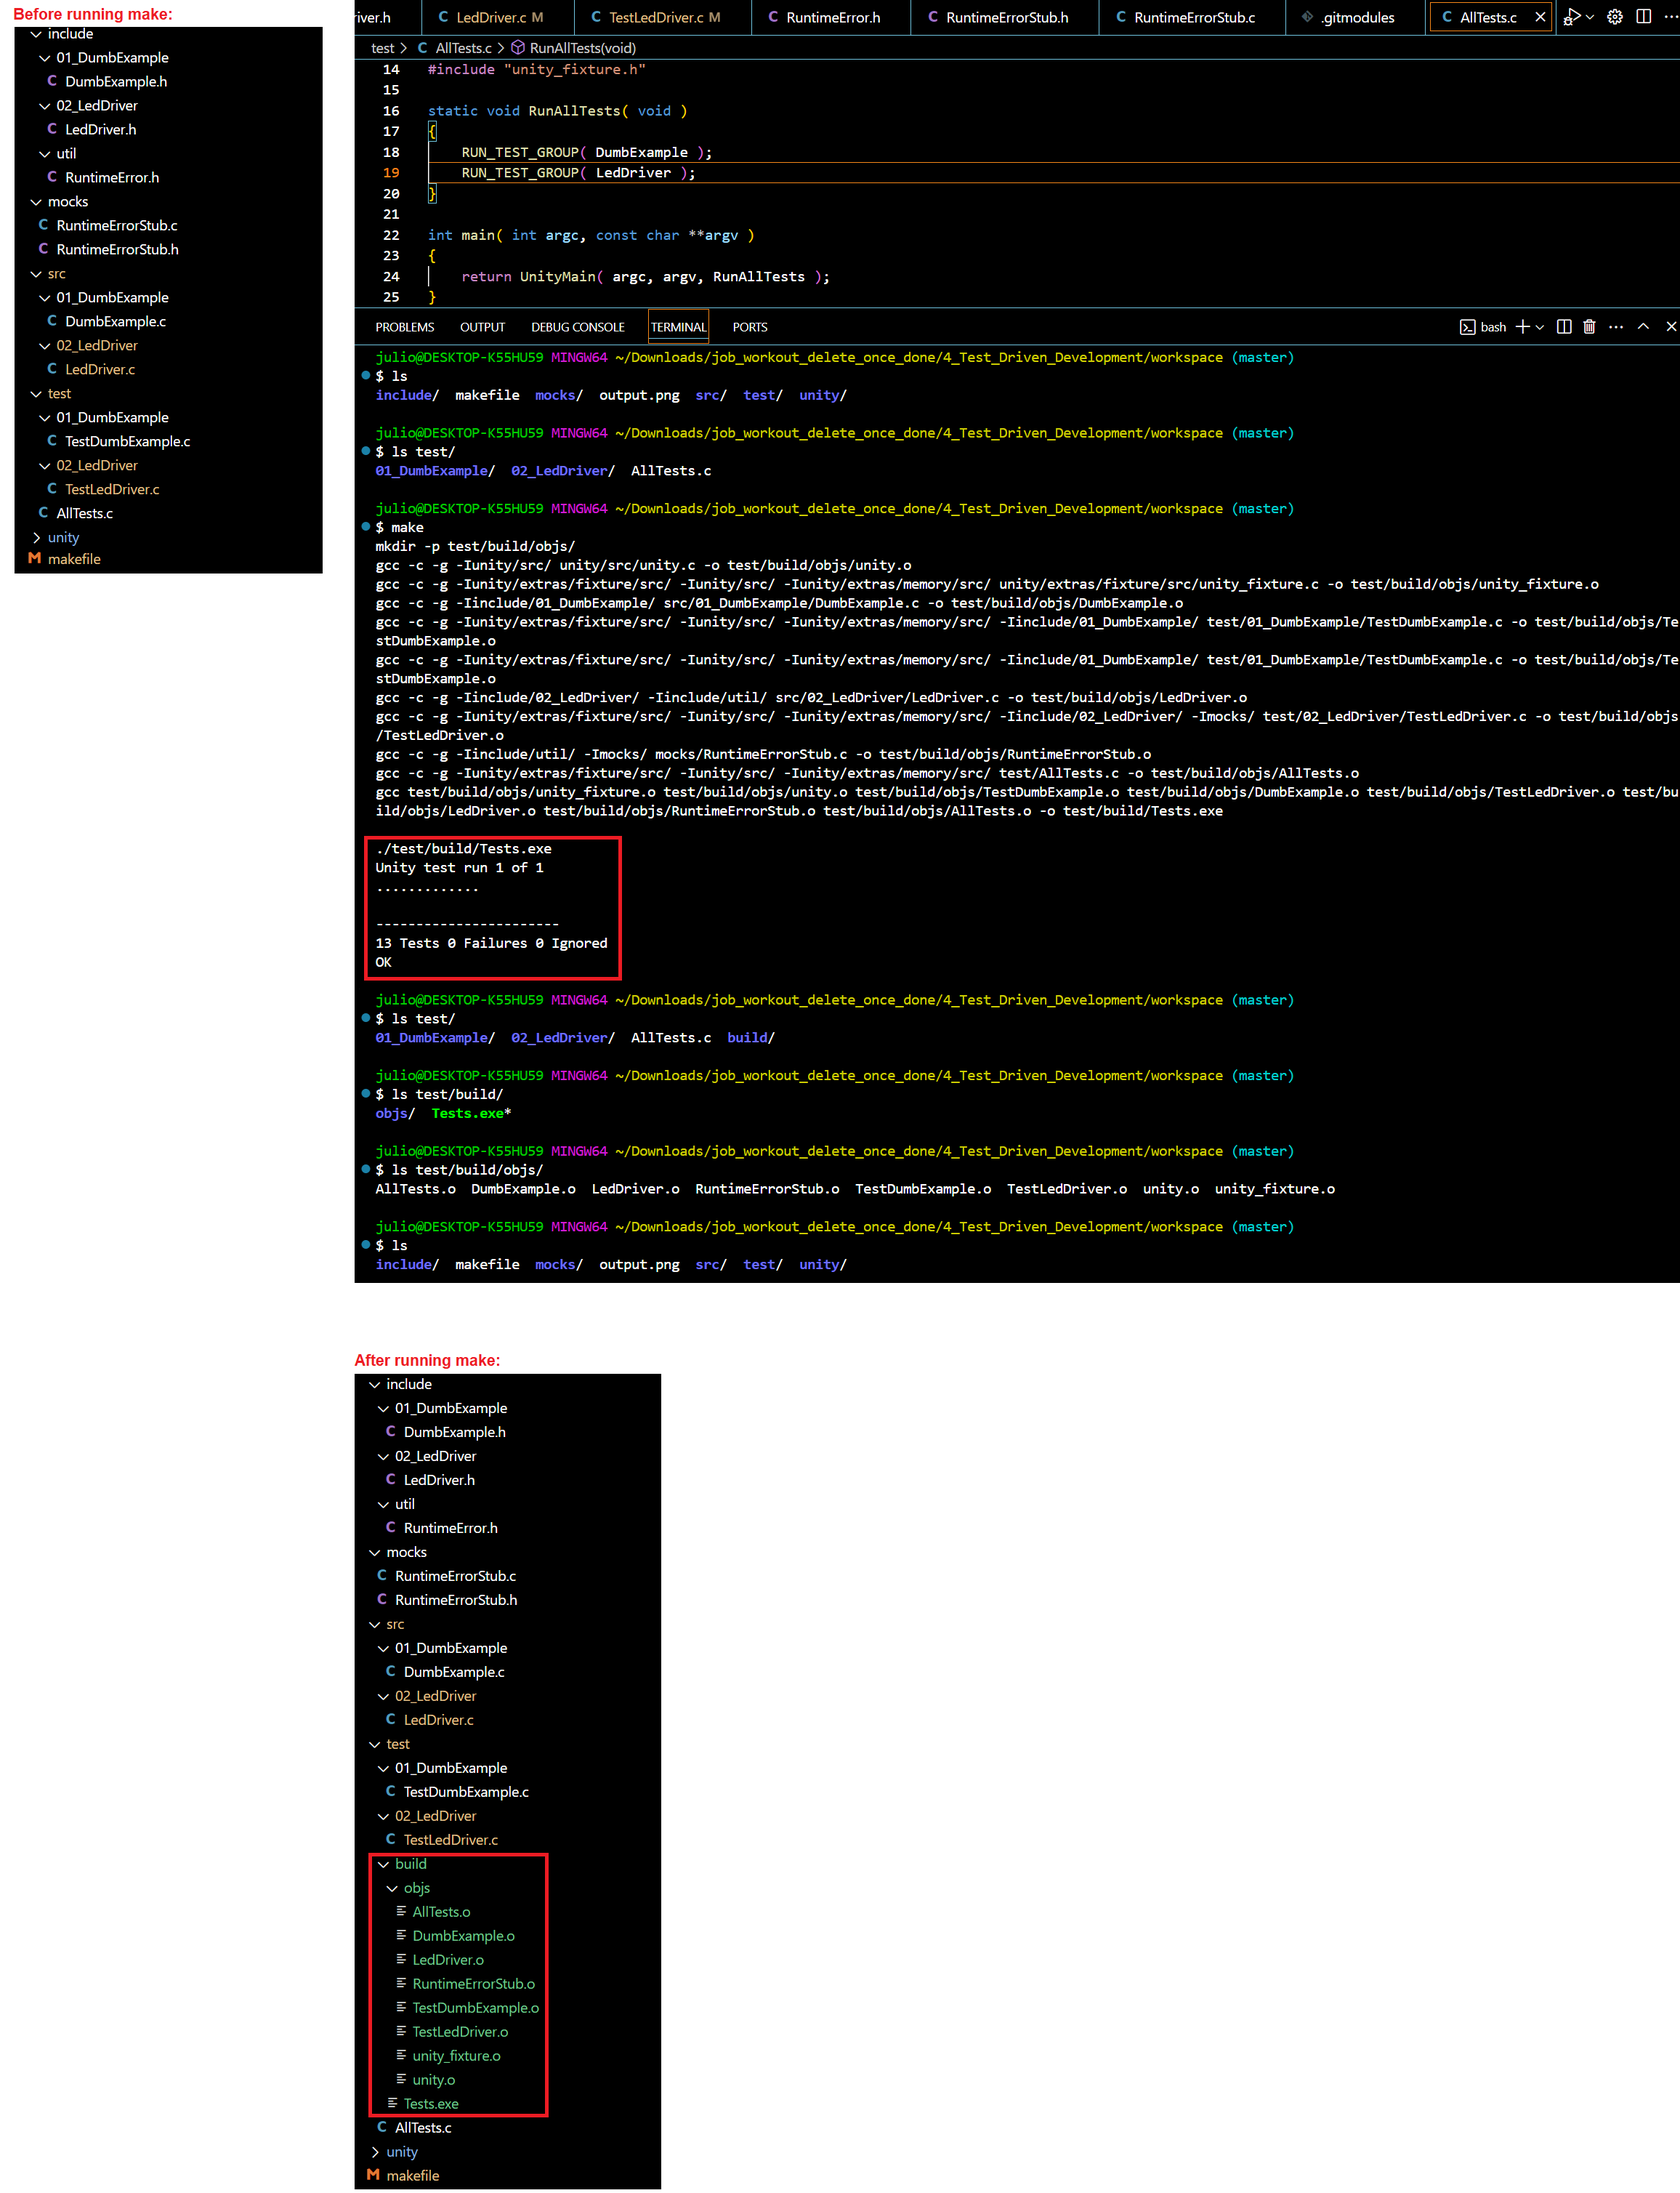
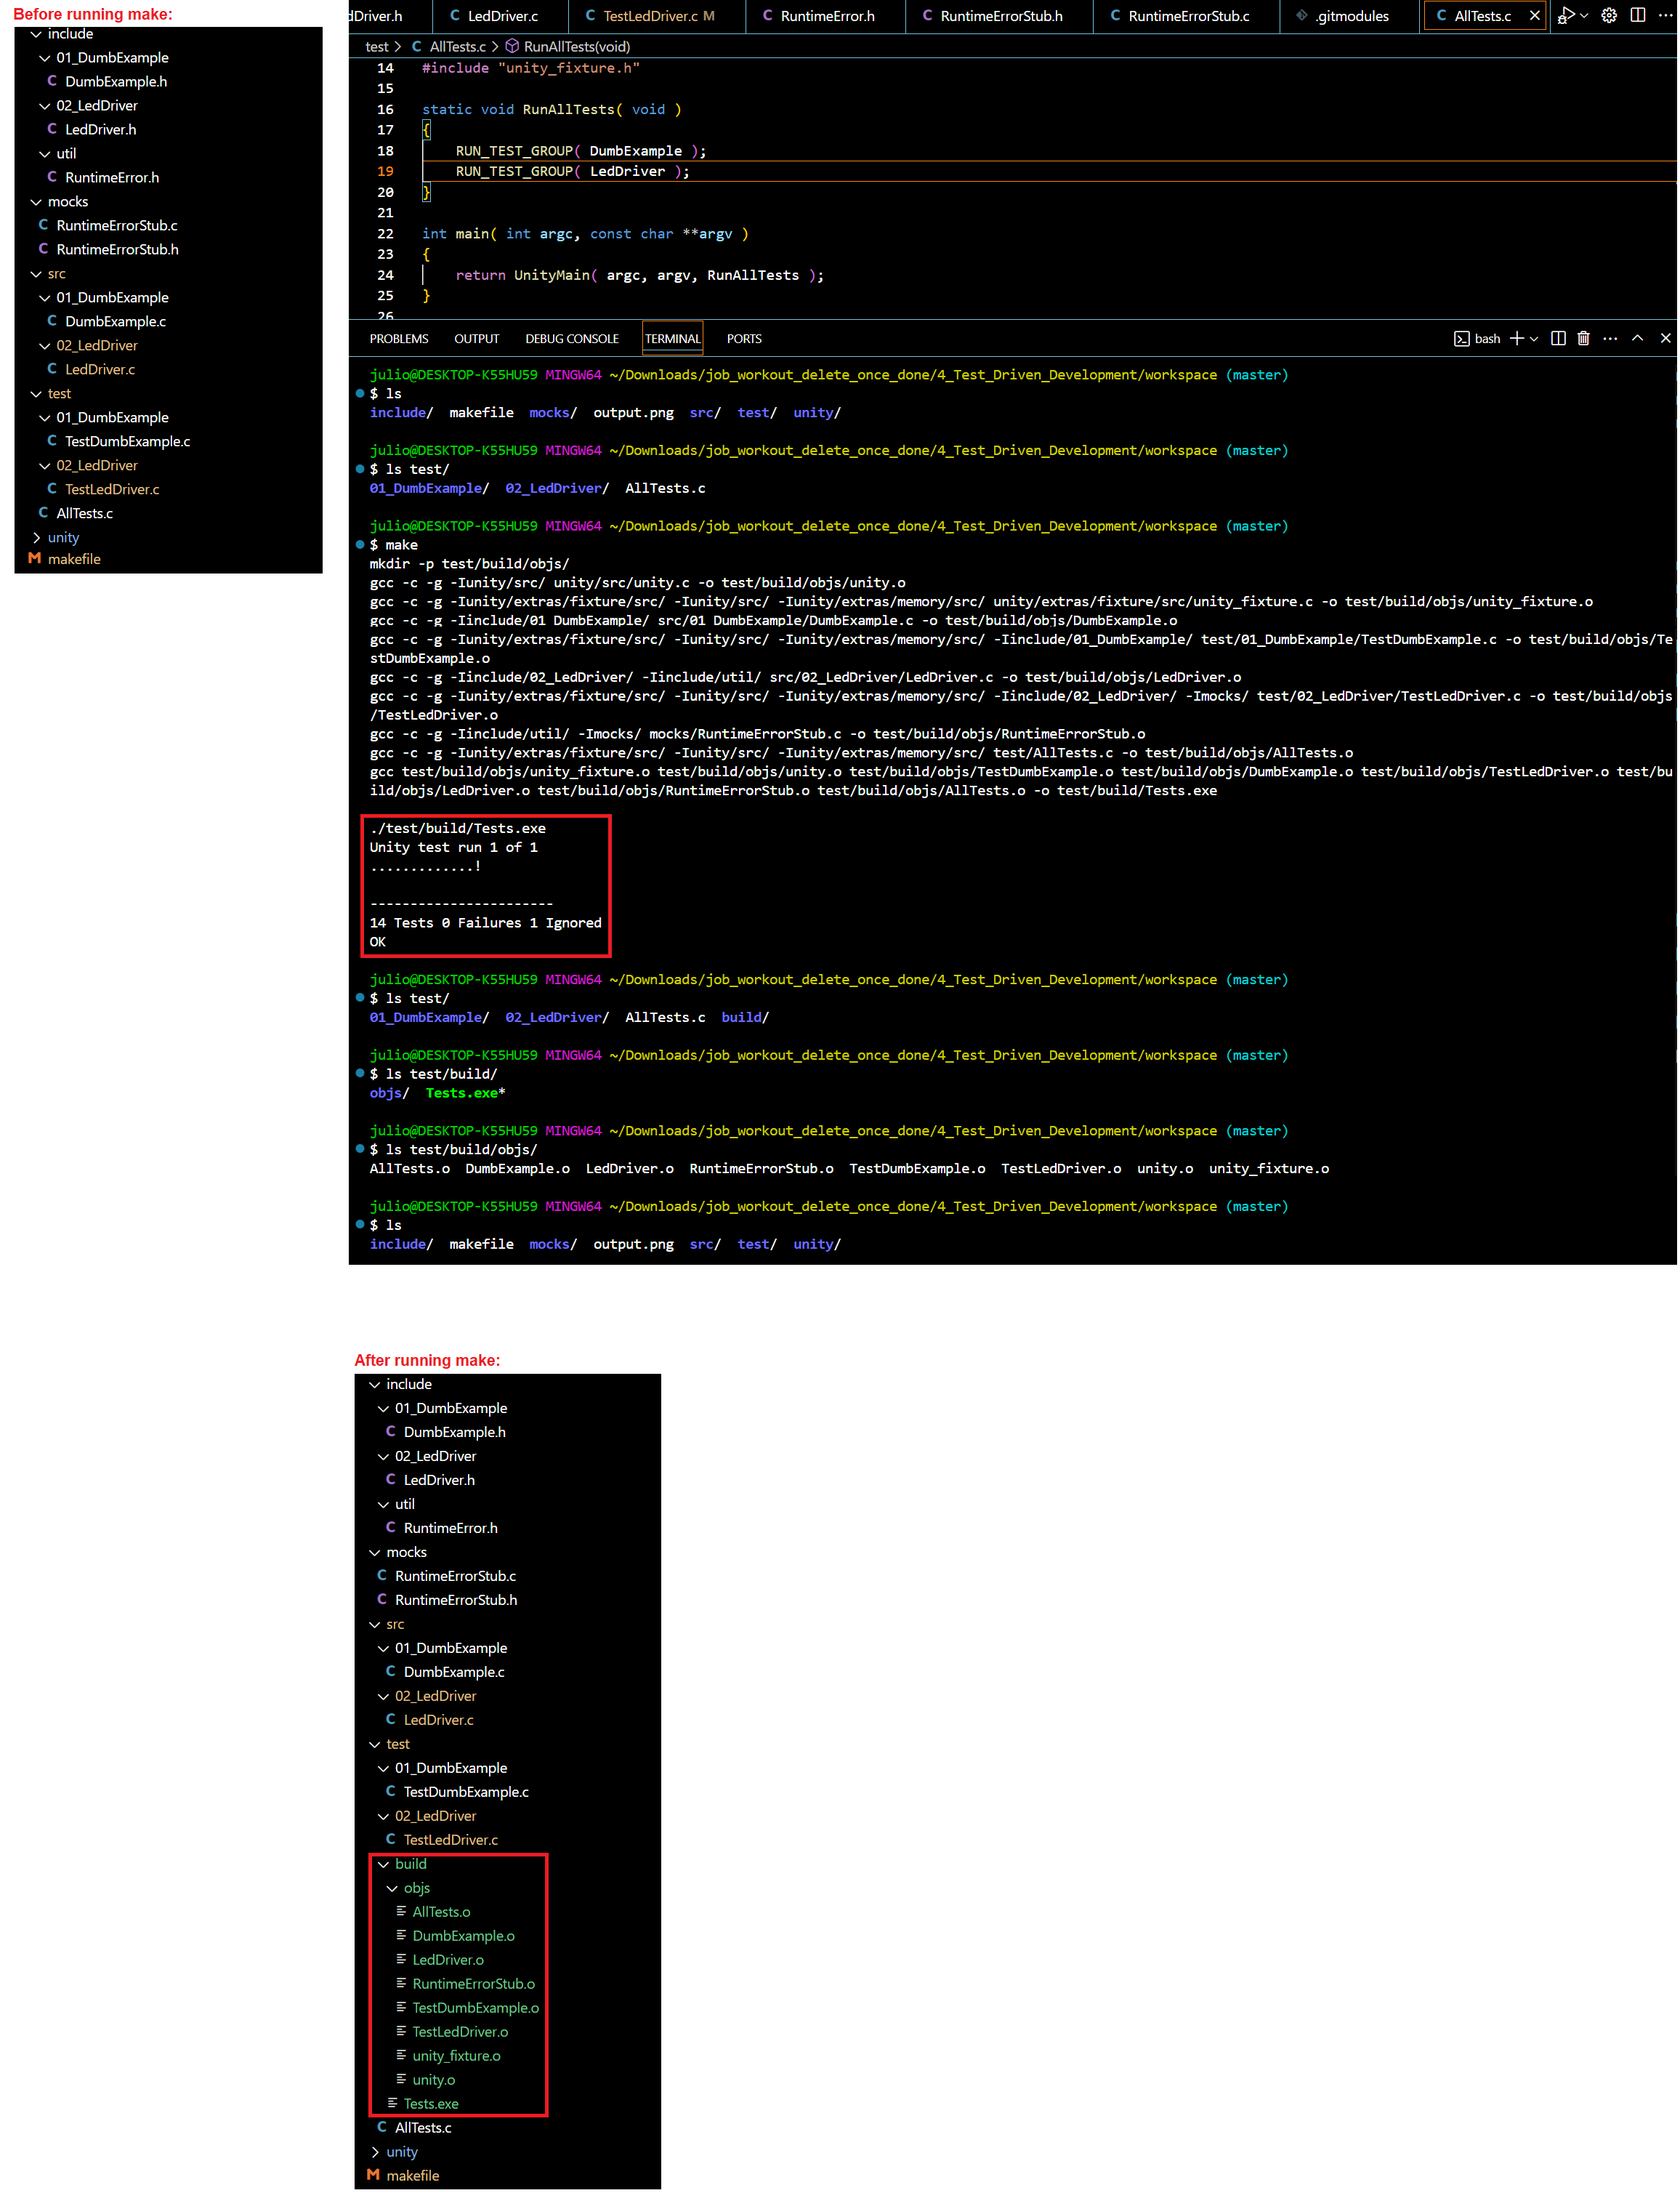
Add LedDriver (ignored) OutOfBoundsToDo test

diff --git a/test/02_LedDriver/TestLedDriver.c b/test/02_LedDriver/TestLedDriver.c
@@ -217,6 +217,12 @@ TEST( LedDriver, OutOfBoundsProducesRuntimeError )
    TEST_ASSERT_EQUAL( ( uint16_t ) -2, errorParameter );
 }
 
+/* TEST 12 */
+IGNORE_TEST( LedDriver, OutOfBoundsToDo )
+{
+   /* TODO: what should we do during runtime? */
+}
+
 TEST_GROUP_RUNNER( LedDriver )
 {
    /* TEST 1 */
@@ -251,4 +257,7 @@ TEST_GROUP_RUNNER( LedDriver )
 
    /* TEST 11 */
    RUN_TEST_CASE( LedDriver, OutOfBoundsProducesRuntimeError );
+
+   /* TEST 12 */
+   RUN_TEST_CASE( LedDriver, OutOfBoundsToDo );
 }
